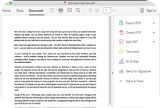
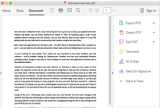
fix: image and style of screen share options component

Changed region(s): [[0.0, 0.0, 1.0, 0.0556]]

diff --git a/apps/100ms-web/src/components/pdfAnnotator/shareScreenOptions.jsx b/apps/100ms-web/src/components/pdfAnnotator/shareScreenOptions.jsx
@@ -119,8 +119,8 @@ export function ShareScreenOptions() {
                   width="100%"
                   height="100%"
                   style={{
-                    borderTopLeftRadius: "$0",
-                    borderTopRightRadius: "$0",
+                    borderTopLeftRadius: "0.5rem", // TODO: create image component to solve for style hardcoding
+                    borderTopRightRadius: "0.5rem",
                   }}
                 />
               </IconButton>
@@ -165,8 +165,8 @@ export function ShareScreenOptions() {
                   width="100%"
                   height="100%"
                   style={{
-                    borderTopLeftRadius: "$0",
-                    borderTopRightRadius: "$0",
+                    borderTopLeftRadius: "0.5rem", // TODO: create image component to solve for style hardcoding
+                    borderTopRightRadius: "0.5rem",
                   }}
                 />
                 <Flex

diff --git a/packages/roomkit-react/src/Prebuilt/components/pdfAnnotator/shareScreenOptions.jsx b/packages/roomkit-react/src/Prebuilt/components/pdfAnnotator/shareScreenOptions.jsx
@@ -104,8 +104,8 @@ export function ShareScreenOptions() {
                   width="100%"
                   height="100%"
                   style={{
-                    borderTopLeftRadius: '$0',
-                    borderTopRightRadius: '$0',
+                    borderTopLeftRadius: '0.5rem', // TODO: create image component to solve for style hardcoding
+                    borderTopRightRadius: '0.5rem',
                   }}
                 />
               </IconButton>
@@ -150,8 +150,8 @@ export function ShareScreenOptions() {
                   width="100%"
                   height="100%"
                   style={{
-                    borderTopLeftRadius: '$0',
-                    borderTopRightRadius: '$0',
+                    borderTopLeftRadius: '0.5rem', // TODO: create image component to solve for style hardcoding
+                    borderTopRightRadius: '0.5rem',
                   }}
                 />
                 <Flex
